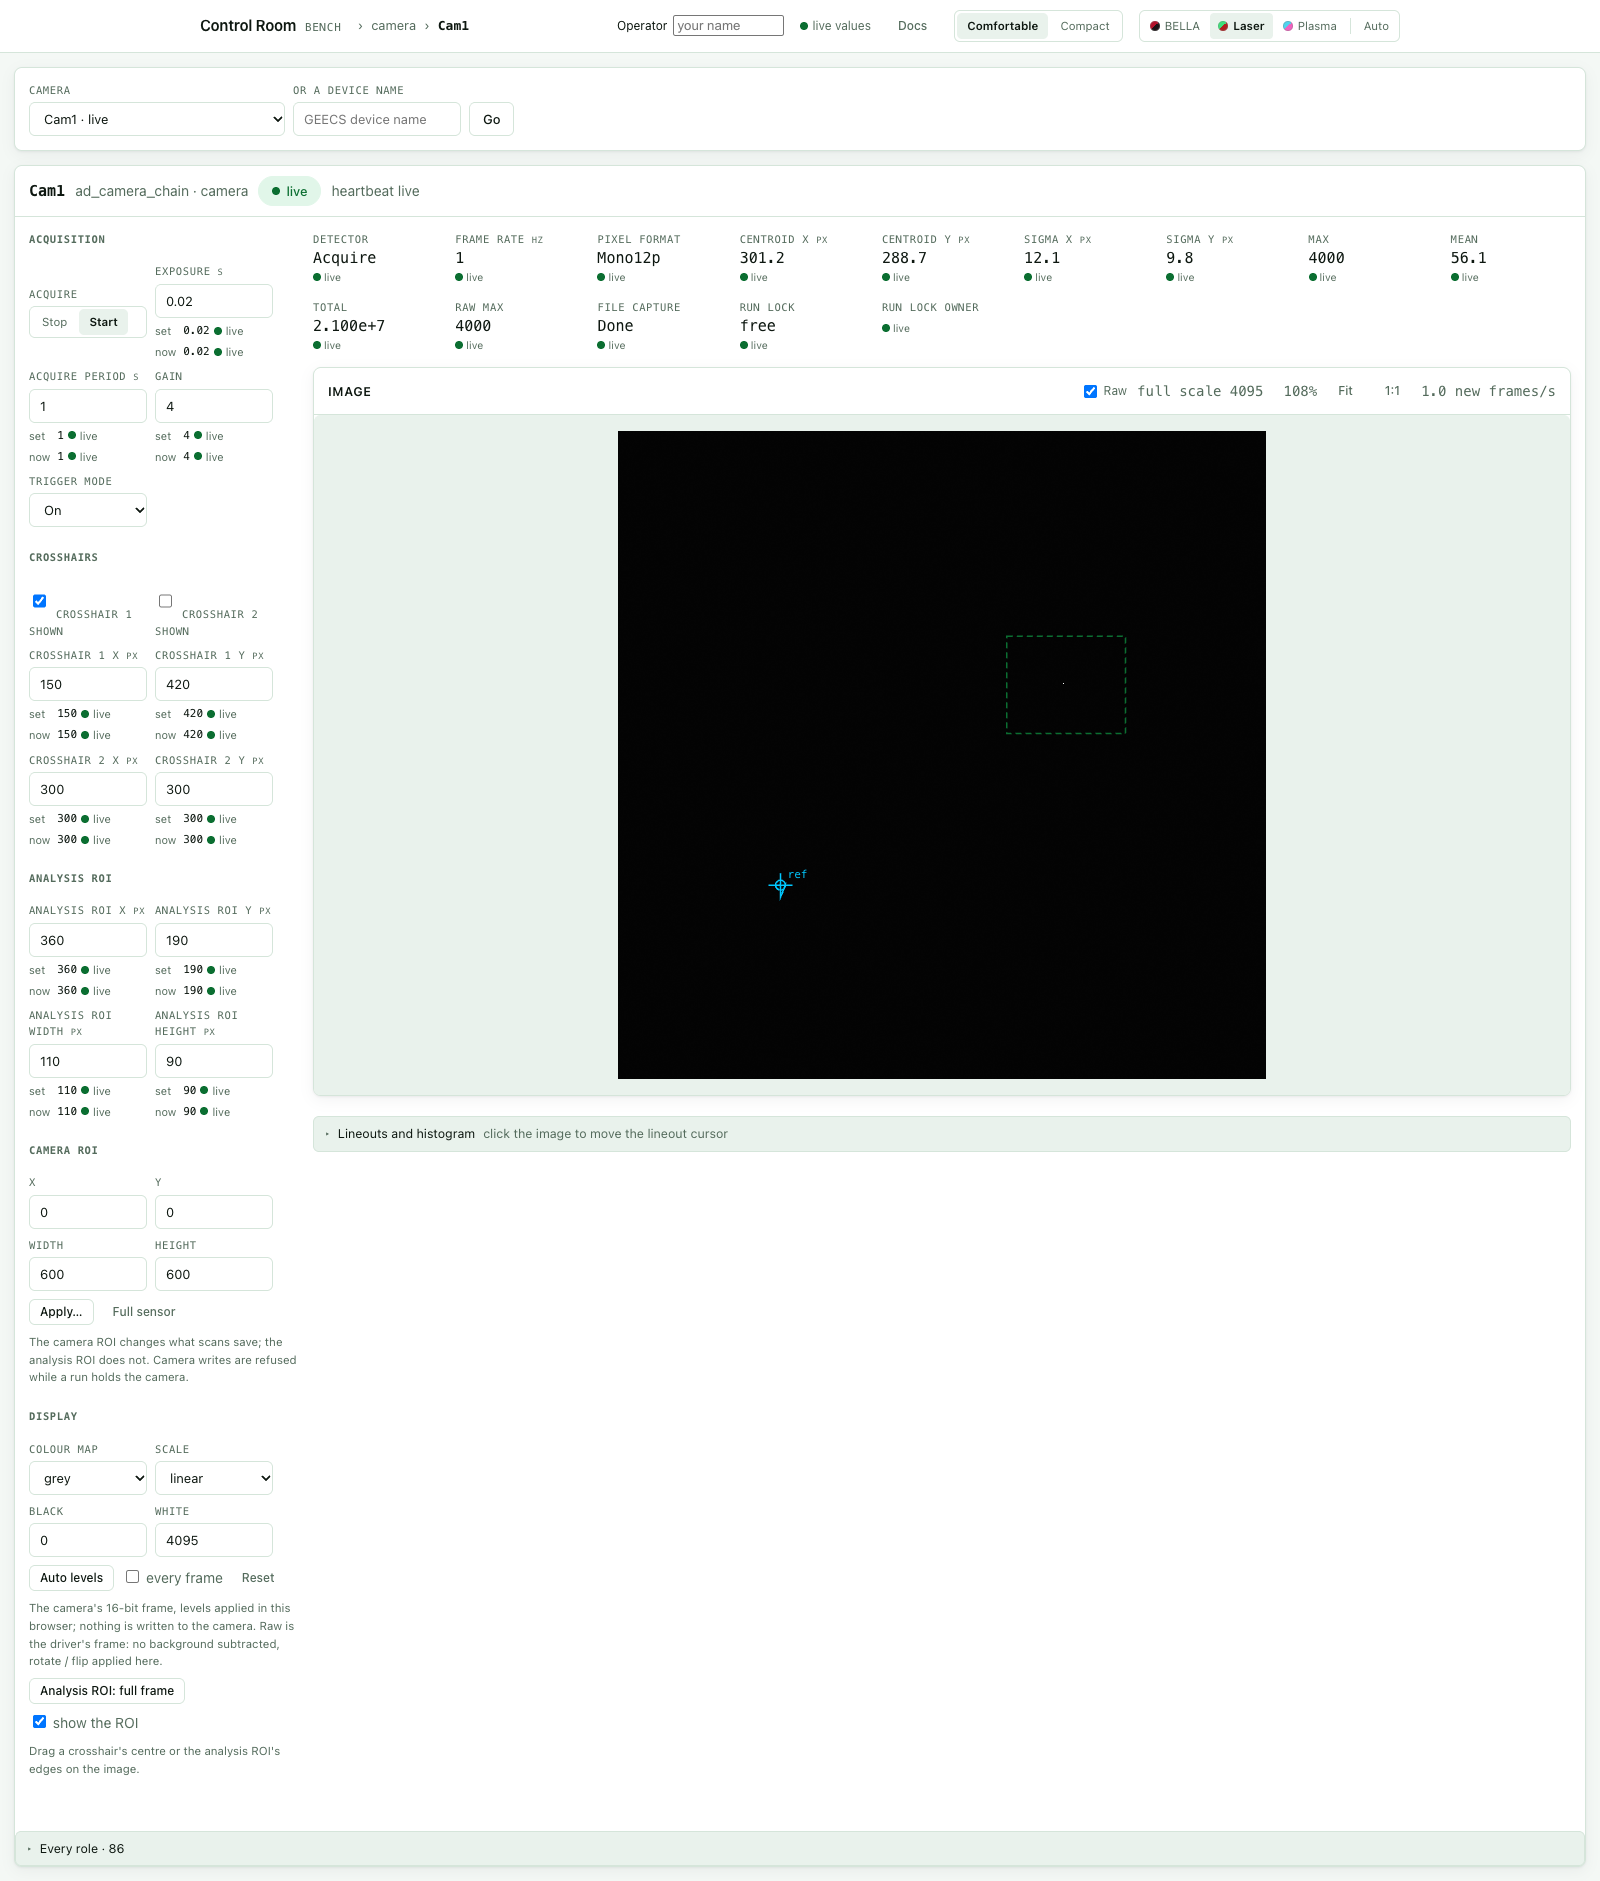
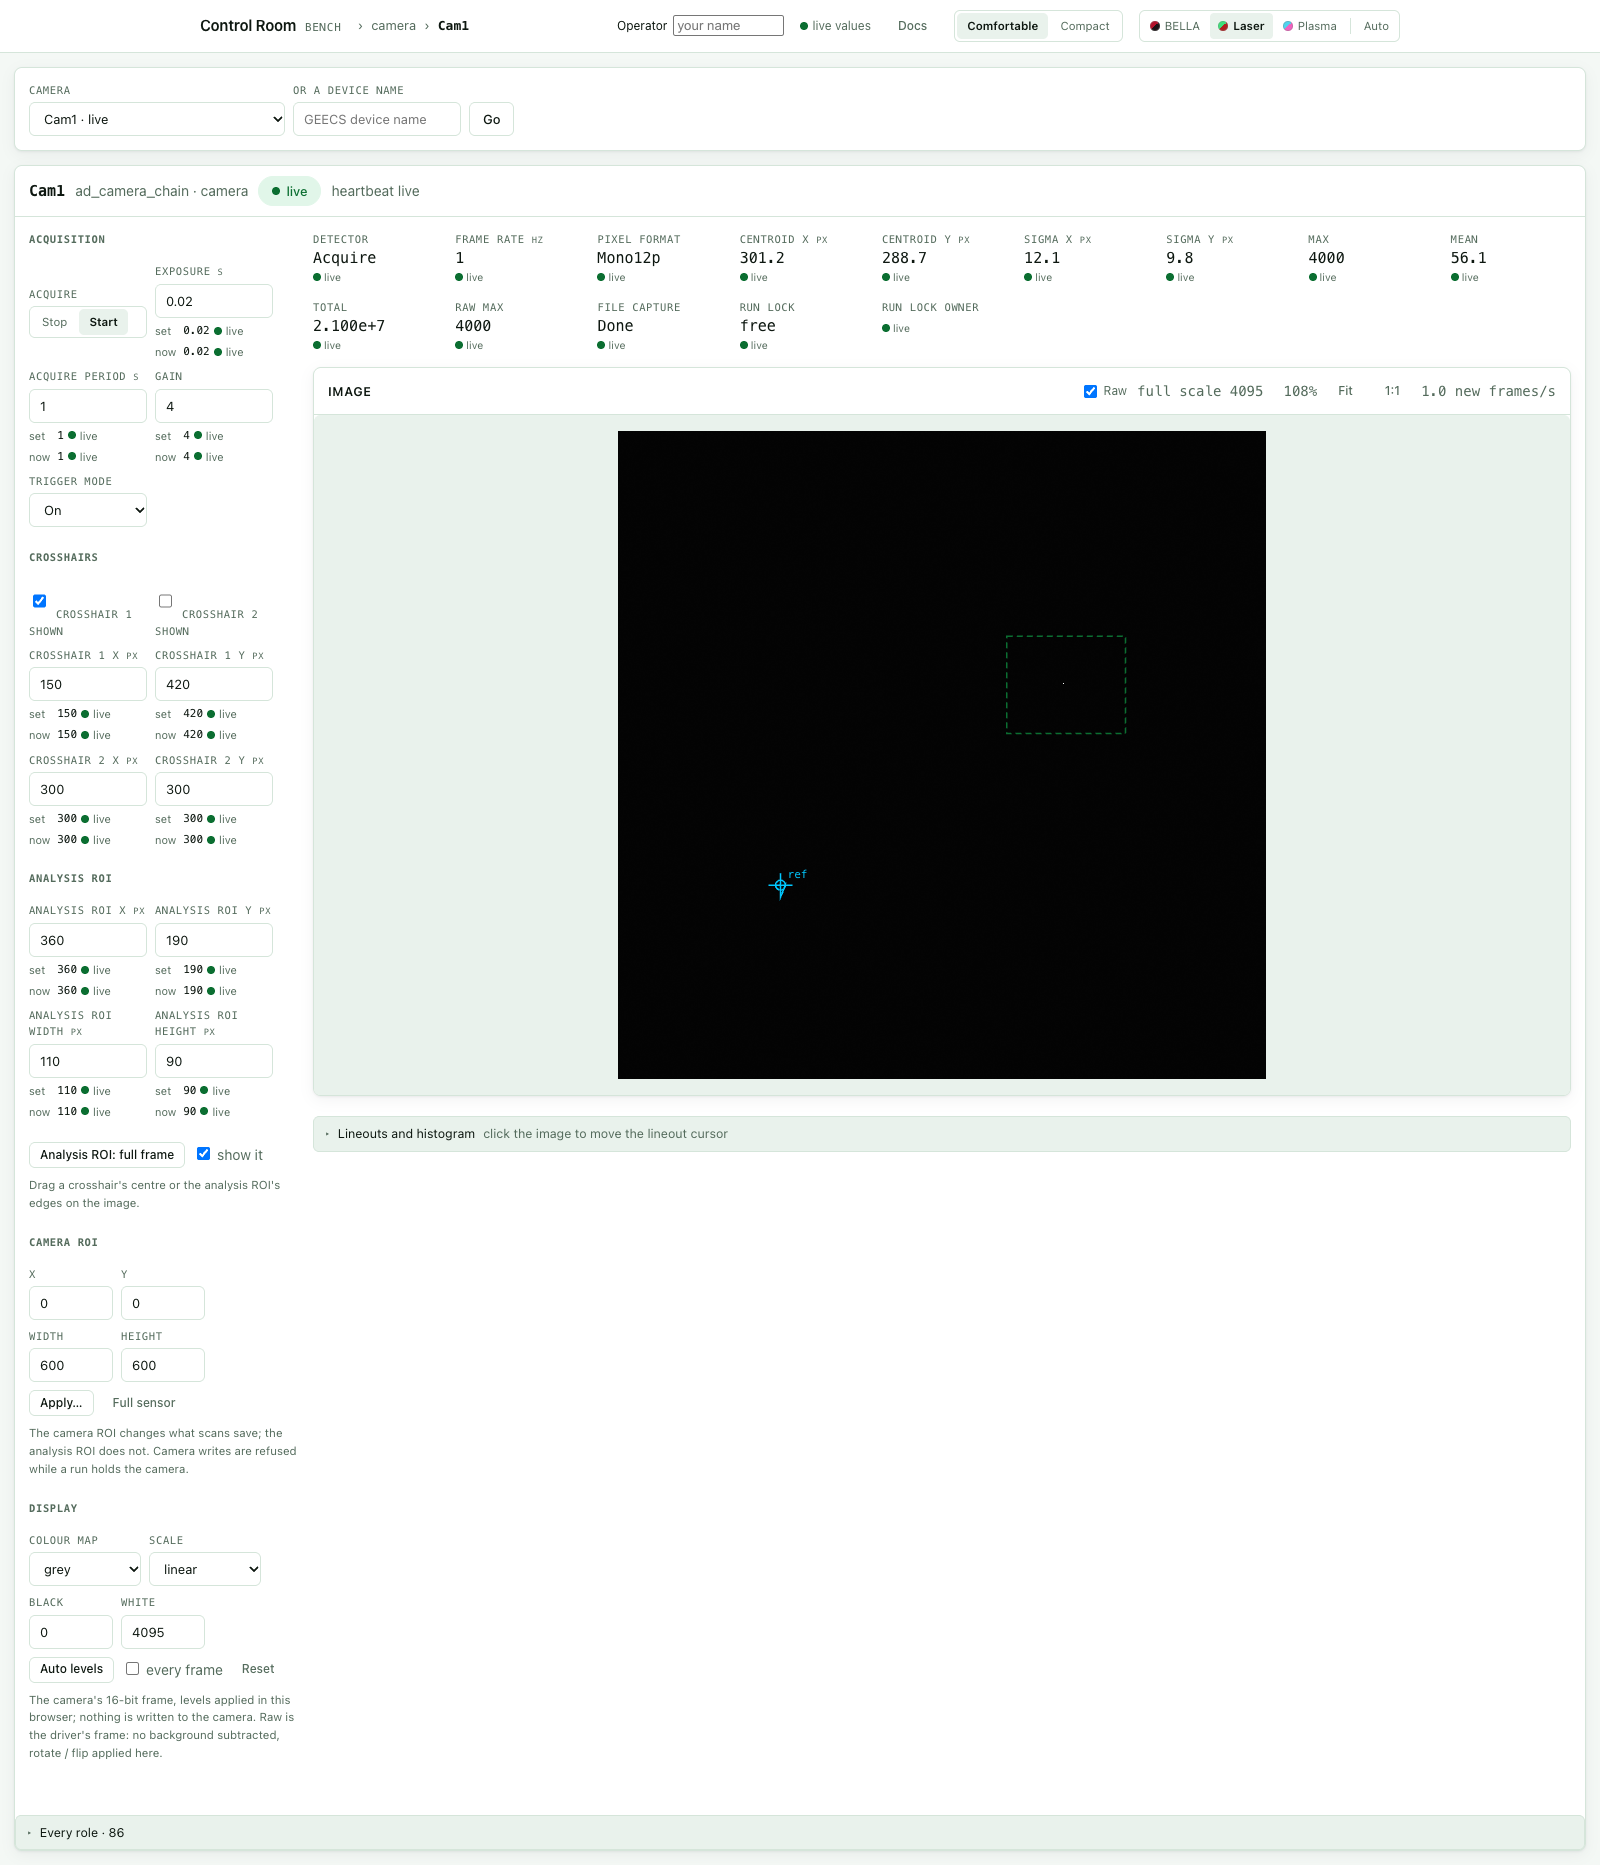
Camera on the rail, review round 1: the camera ROI never on a camera's rail (OWN_ROLES), the rail filled once per frame on the camera, the rail's group-hiding pinned, the ROI tools beside their group, scoped CSS, comments, one GATEWAY

diff --git a/GeecsControlRoom/geecs_control_room/templates/device_camera.html b/GeecsControlRoom/geecs_control_room/templates/device_camera.html
@@ -26,6 +26,13 @@
 <div class="camera" id="camera" data-frame-url="{{ root }}/api/devices/{{ name | urlencode }}/frame.jpg" data-raw-url="{{ root }}/api/devices/{{ name | urlencode }}/frame.raw" data-arrays-url="{{ root }}/api/devices/{{ name | urlencode }}/arrays">
   <aside class="rail panel-rail">
     {{ P.rail(panel, specs) }}
+    <section class="group roi-tools">
+      <div class="row">
+        <button class="btn sm" type="button" id="roi-full" disabled>Analysis ROI: full frame</button>
+        <label class="dim"><input type="checkbox" id="roi-show" checked> show it</label>
+      </div>
+      <div class="hint dim">Drag a crosshair's centre or the analysis ROI's edges on the image.</div>
+    </section>
     <section class="group">
       <h4>Camera ROI</h4>
       <div class="row">{{ roi("min_x", "x") }}{{ roi("min_y", "y") }}</div>
@@ -56,11 +63,6 @@
         <button class="btn sm ghost" type="button" id="reset-levels">Reset</button>
       </div>
       <div class="hint dim" id="levels-hint">The 8-bit stream, stretched in this browser: nothing is written to the camera.</div>
-      <div class="row">
-        <button class="btn sm" type="button" id="roi-full" disabled>Analysis ROI: full frame</button>
-        <label class="dim"><input type="checkbox" id="roi-show" checked> show the ROI</label>
-      </div>
-      <div class="hint dim">Drag a crosshair's centre or the analysis ROI's edges on the image.</div>
     </section>
     <div class="out" id="write-out" data-state="unknown" role="status"></div>
   </aside>

diff --git a/GeecsControlRoom/geecs_control_room/static/device.css b/GeecsControlRoom/geecs_control_room/static/device.css
@@ -21,8 +21,8 @@
 .kit .camera .readings{grid-template-columns:repeat(auto-fill,minmax(120px,1fr))}
 .kit .camera .readings .live .v{font-size:15px}
 .kit .camera .readings .ws{font-size:10.5px;color:var(--muted)}
-/* The rail and readings of every page drawn from a panel (_panel.html: the settables page, the trace page),
-   in camera.css's rail-and-pane layout: short fields that wrap, a setpoint's readback under it, a tweak's
+/* The rail and readings of every page drawn from a panel (_panel.html: the settables, trace and camera pages),
+   in the rail-and-pane layout above: short fields that wrap, a setpoint's set / now under it, a tweak's
    step between its − and +, a grid group's cells. */
 .kit .device .settables{display:flex;flex-direction:column;gap:8px}
 .kit .panel-rail .group .row{flex-wrap:wrap;gap:8px}

diff --git a/GeecsControlRoom/geecs_control_room/static/camera_controls.js b/GeecsControlRoom/geecs_control_room/static/camera_controls.js
@@ -13,7 +13,8 @@
   let roiDraft = false;
   // camera.js's write runs one list at a time for the page (the rail and the image's edits); null: refused, one runs
   const send = (pairs, confirmed = false) => V.write(pairs, confirmed);
-  const rail = window.GeecsDeviceRail.make(P, $("camera"), { write: V.write, busy: V.busy });
+  // filled through camera.js's hooks (one refresh per animation frame, and a write's start and end), never on every PV update
+  const rail = window.GeecsDeviceRail.make({ ...P, on() {} }, $("camera"), { write: V.write, busy: V.busy });
 
   // ---- the camera ROI's four fields: filled unless focused or holding the draft, enabled on the module's word
   const CAM_ROI = ["min_x", "min_y", "size_x", "size_y"];

diff --git a/GeecsControlRoom/geecs_control_room/templates/_panel.html b/GeecsControlRoom/geecs_control_room/templates/_panel.html
@@ -2,8 +2,8 @@
   The rail and the readings strip of a device page, drawn from a panel
   (device_pages.page_panel: the family's `panel`, else the automatic one,
   trimmed to the roles this device serves). One copy, imported by
-  device.html (every kind without a data component) and device_trace.html;
-  the camera page keeps its hand-coded rail until it moves onto its panel.
+  device.html (every kind without a data component), device_trace.html,
+  device_camera.html and screen.html (a screen's widgets).
   Each rail role is drawn by its type through `control`: an enum a select
   of the record's own choices, a setpoint a number field tracking the
   device's setpoint with the setpoint and the measured value under it, each

diff --git a/GeecsControlRoom/geecs_control_room/static/device_rail.js b/GeecsControlRoom/geecs_control_room/static/device_rail.js
@@ -1,5 +1,5 @@
 // A panel page's rail and readings strip, DOM only: the one copy for every page drawn from a panel
-// (_panel.html: the settables page in device.html, the trace page). Each control is enabled on the module's word
+// (_panel.html: the settables page in device.html, the trace page, the camera page; a screen's widgets too). Each control is enabled on the module's word
 // (camera_rules.js's `control`), written through device_writes.js (the module's put route, the operator's name,
 // sent once; a per-axis control's write carries its axis); each reading shows its value and the module's word; a
 // value with no family units takes the record's (Hare's EGU); a group whose `<ch>_present` reads 0 is hidden; each

diff --git a/GeecsControlRoom/geecs_control_room/static/camera.css b/GeecsControlRoom/geecs_control_room/static/camera.css
@@ -18,4 +18,4 @@
 .kit .panel.image header #raw-note:empty{display:none}
 .kit .panel.image header #raw-note[data-state="degraded"]{color:var(--warn)}
 /* The camera's rail is the panel's (_panel.html): two fields to a row in its narrow column, set / now under each. */
-.kit #camera .panel-rail .field,.kit #camera .panel-rail .field.setpoint{width:118px}
+.kit #camera .panel-rail .group[data-roles] .field{width:118px}

diff --git a/GeecsControlRoom/geecs_control_room/device_pages.py b/GeecsControlRoom/geecs_control_room/device_pages.py
@@ -33,7 +33,7 @@ from geecs_schemas import FamilyFile, load_families
 from geecs_web_theme.web import root_of
 from pydantic import ValidationError
 
-from geecs_control_room.module_client import ModuleClient, ModuleUnavailable
+from geecs_control_room.module_client import GATEWAY, ModuleClient, ModuleUnavailable
 from geecs_control_room.screens import KIT_STATE, registry, role_spec
 from geecs_control_room.settings import Settings
 from geecs_control_room.traces import trace_roles
@@ -49,8 +49,6 @@ class Kind:
 
 #: The kind word of the GEECS DB devices the module serves through the gateway (no family file).
 DB_KIND = "settables"
-#: The roster's ``source`` of a DB device.
-GATEWAY = "gateway"
 
 #: The URL's kind word → the family kind → the page. A new family of a kind needs no code.
 KINDS = {
@@ -255,12 +253,17 @@ def specs(entries: list[dict[str, Any]], family: Optional[FamilyFile], units: di
     return out
 
 
-def page_panel(body: dict[str, Any], family: Optional[FamilyFile], rows: list[dict[str, Any]]) -> dict[str, Any]:  # fmt: skip
-    """What the page draws above the role tables: the panel (the family's, else automatic) for this device's roles, and each role's control spec."""
+#: Roles a kind's page draws itself, never on its rail, whatever the family's panel says: the camera ROI (one
+#: draft of four fields applied behind its dialog, since it changes what every scan with the camera saves).
+OWN_ROLES = {"camera": frozenset({"min_x", "min_y", "size_x", "size_y"})}
+
+
+def page_panel(body: dict[str, Any], family: Optional[FamilyFile], rows: list[dict[str, Any]], kind: Optional[str] = None) -> dict[str, Any]:  # fmt: skip
+    """What the page draws above the role tables: the panel (the family's, else automatic) for this device's roles, less the kind's own (``OWN_ROLES``), and each role's control spec."""
     axes = body.get("axes") or [None]
     entries = [e for e in body.get("roles") or [] if e.get("axis") == (axes[0] if family and family.per_axis else None)]  # fmt: skip
     authored: Optional[dict[str, Any]] = family.panel.model_dump(mode="json") if family and family.panel else None  # fmt: skip
-    panel = drawn_panel(authored or auto_panel(entries), {e["role"] for e in entries})
+    panel = drawn_panel(authored or auto_panel(entries), {e["role"] for e in entries} - OWN_ROLES.get(kind or "", frozenset()))  # fmt: skip
     units = {r["name"]: r.get("units") for r in rows}
     return {"panel": panel, "specs": specs(entries, family, units), "auto": authored is None}  # fmt: skip
 
@@ -293,7 +296,9 @@ async def resolve(module: ModuleClient, kind: str, name: str) -> tuple[int, dict
         what = family.template if family else f"{name} (a GEECS DB device, {body['family'] or 'no type'})"  # fmt: skip
         return 422, {"pane": ("denied", f"Wrong kind: {what} is a {word}", ""), "other": word}  # fmt: skip
     rows = tables(body, family)
-    drawn = page_panel(body, family, [r for _, axis_rows in rows for r in axis_rows])
+    drawn = page_panel(
+        body, family, [r for _, axis_rows in rows for r in axis_rows], word
+    )
     return 200, {"pane": None, "device": body, "family": family, "tables": rows, "trace": trace_roles(family)} | drawn  # fmt: skip
 
 

diff --git a/GeecsControlRoom/tests/test_device_pages.py b/GeecsControlRoom/tests/test_device_pages.py
@@ -17,6 +17,7 @@ from geecs_control_room.device_pages import (
     KINDS,
     auto_panel,
     drawn_panel,
+    page_panel,
     registered,
 )
 from geecs_control_room.home import launcher
@@ -245,3 +246,27 @@ def test_a_device_draws_only_the_roles_it_serves_and_a_tweak_only_whole() -> Non
     # a group with none of its roles served is not drawn; a reading the device omits is not either
     gone = drawn_panel(motor, served - {"homf", "homr", "hls"})
     assert [g["title"] for g in gone["rail"]] == ["Move", "Speed"] and "hls" not in gone["readings"]  # fmt: skip
+
+
+@pytest.mark.parametrize("panel", ["none", "naming it"])
+def test_a_cameras_rail_never_carries_its_camera_roi(panel: str) -> None:
+    """The camera ROI is the camera page's own (one draft, behind its dialog): never a rail field, whatever the family's panel says."""
+    from geecs_schemas import FamilyFile
+
+    doc = load_families()["ad_camera_chain"].model_dump(mode="json")
+    if (
+        panel == "none"
+    ):  # a camera family with no panel: the automatic layout, every writable role
+        doc["panel"] = None
+    else:  # a panel that names the camera ROI in a rail group
+        doc["panel"]["rail"][0]["roles"] += ["min_x", "size_x"]
+    family = FamilyFile.model_validate(doc)
+    body = {
+        "roles": [
+            _entry(r.name, r.type, r.writable, r.read_mode) | {"axis": None}
+            for r in family.roles
+        ]
+    }
+    drawn = page_panel(body, family, [], kind="camera")
+    railed = {r for g in drawn["panel"]["rail"] for r in g["roles"]}
+    assert railed and not railed & {"min_x", "min_y", "size_x", "size_y"}

diff --git a/GeecsControlRoom/geecs_control_room/images.py b/GeecsControlRoom/geecs_control_room/images.py
@@ -57,7 +57,7 @@ import numpy as np
 from fastapi import APIRouter, Request
 from fastapi.responses import JSONResponse, Response
 
-from geecs_control_room.module_client import ModuleClient, ModuleUnavailable
+from geecs_control_room.module_client import GATEWAY, ModuleClient, ModuleUnavailable
 
 #: The module's device route is reused this long (the roster's own cadence).
 ROUTE_TTL_S = 10.0
@@ -306,7 +306,7 @@ class Images:
             raise Unavailable(503, f"the module answered {status} for {name}")
         roles = {r["role"]: r for r in body.get("roles") or [] if r.get("pv") and not r.get("axis")}  # fmt: skip
         # the source decides first: a DB device's family is its DB device type, never looked up as a family file
-        family = None if body.get("source") == "gateway" else body.get("family")
+        family = None if body.get("source") == GATEWAY else body.get("family")
         self._good[name], self._family[name] = roles, family
         return roles
 

diff --git a/GeecsControlRoom/tests/test_screen_rail_js.py b/GeecsControlRoom/tests/test_screen_rail_js.py
@@ -43,7 +43,9 @@ const wheel2 = widget({ device: "Wheel", role: "pos2" }, [unread]);
 const field = el("INPUT", { type: "number", step: "any", dataset: { role: "x:u_a:b", readback: "x:u_a:b" } });
 const bare = widget({ pv: "x:u_a:b" }, [field], true);
 const all = [...pairs, narrowed, unread, field];
-const box = el("MAIN", { querySelectorAll: (sel) => (sel === ".field [data-role]" ? all : []) });
+// a page's own group beside the panel's (a camera's ROI, its display) carries no data-roles: the rail leaves it be
+const own = el("SECTION");
+const box = el("MAIN", { querySelectorAll: (sel) => (sel === ".field [data-role]" ? all : sel === ".panel-rail .group" ? [own] : []) });
 // the module's entries and Hare's values per device, as screen.js's pageOf answers them
 const DEV = {
   PLC: { roles: { "DO.Ch1|": { role: "DO.Ch1", pv: "plc:do1", writePv: "plc:do1:SP", writable: true, read: "monitor", verdict: null } },

diff --git a/GeecsControlRoom/geecs_control_room/module_client.py b/GeecsControlRoom/geecs_control_room/module_client.py
@@ -23,6 +23,10 @@ PUT_TIMEOUT_S, READ_TIMEOUT_S = 45.0, 1.4
 RUN_TIMEOUT_S = 10.0
 
 
+#: The device route's ``source`` of a GEECS DB device (the CA gateway's): its family is its DB device type, never a family file.
+GATEWAY = "gateway"
+
+
 class ModuleUnavailable(Exception):
     """The module could not be reached, or answered with something that is not JSON."""
 

diff --git a/GeecsControlRoom/CLAUDE.md b/GeecsControlRoom/CLAUDE.md
@@ -52,8 +52,8 @@ geecs_control_room/
   static/device.js, device_rules.js   the device pages' live half (roles from the module per role and
                     axis, values from Hare) and its rules (picker options, a role row's word and units, the
                     rail's present-hiding, a control's written value, a pane's alarms)
-  static/device_rail.js   the ONE rail and readings strip of every page drawn from a panel (the settables
-                    page and the trace page): fill from Hare, enable on the module's word, write through
+  static/device_rail.js   the ONE rail and readings strip of every page drawn from a panel (the settables,
+                    trace and camera pages; a screen's widgets): fill from Hare, enable on the module's word, write through
                     device_writes.js (axis on a per-axis write), the setpoint control (§ "The setpoint
                     control" below); starts itself on the settables page
   static/device.css the device pages' layout
